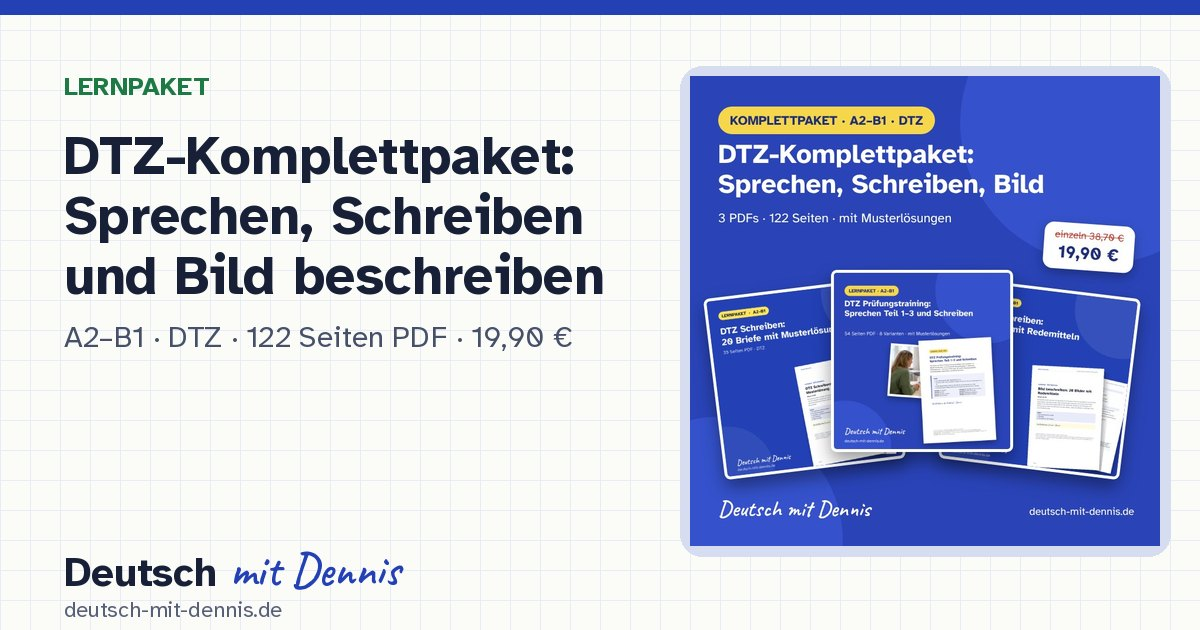
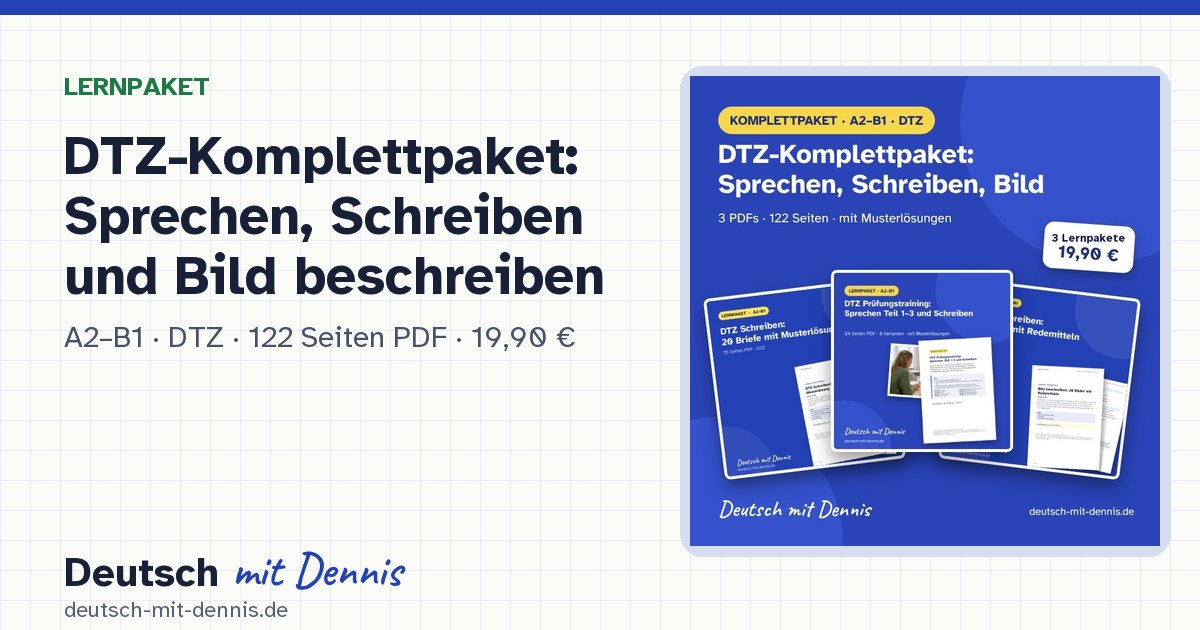
Remove price comparison from DTZ complete package (Digistore requirement)

diff --git a/lernpakete/dtz-komplettpaket/index.html b/lernpakete/dtz-komplettpaket/index.html
@@ -1,13 +1,13 @@
 <!DOCTYPE html>
 <html lang="de"><head><meta charset="utf-8"><meta name="viewport" content="width=device-width,initial-scale=1">
 <title>DTZ-Komplettpaket: Sprechen, Schreiben und Bild beschreiben – Deutsch mit Dennis</title>
-<meta name="description" content="Alles für die mündliche Prüfung und das Schreiben im DTZ in einem Paket – drei Lernpakete zum Sparpreis: das Prüfungstraining Sprechen Teil 1–3 und Schreiben, 20 Briefe mit Musterlösung und 20 Bilder mit Redemitteln. Einzeln kosten sie zusammen 38,70 €.">
+<meta name="description" content="Alles für die mündliche Prüfung und das Schreiben im DTZ in einem Paket – drei Lernpakete zusammen: das Prüfungstraining Sprechen Teil 1–3 und Schreiben, 20 Briefe mit Musterlösung und 20 Bilder mit Redemitteln.">
 <link rel="canonical" href="https://deutsch-mit-dennis.de/lernpakete/dtz-komplettpaket/">
 <meta property="og:type" content="website"><meta property="og:site_name" content="Deutsch mit Dennis"><meta property="og:locale" content="de_DE">
-<meta property="og:title" content="DTZ-Komplettpaket: Sprechen, Schreiben und Bild beschreiben"><meta property="og:description" content="Alles für die mündliche Prüfung und das Schreiben im DTZ in einem Paket – drei Lernpakete zum Sparpreis: das Prüfungstraining Sprechen Teil 1–3 und Schreiben, 20 Briefe mit Musterlösung und 20 Bilder mit Redemitteln. Einzeln kosten sie zusammen 38,70 €."><meta property="og:url" content="https://deutsch-mit-dennis.de/lernpakete/dtz-komplettpaket/">
+<meta property="og:title" content="DTZ-Komplettpaket: Sprechen, Schreiben und Bild beschreiben"><meta property="og:description" content="Alles für die mündliche Prüfung und das Schreiben im DTZ in einem Paket – drei Lernpakete zusammen: das Prüfungstraining Sprechen Teil 1–3 und Schreiben, 20 Briefe mit Musterlösung und 20 Bilder mit Redemitteln."><meta property="og:url" content="https://deutsch-mit-dennis.de/lernpakete/dtz-komplettpaket/">
 <meta property="og:image" content="https://deutsch-mit-dennis.de/assets/og/paket-dtz-komplettpaket.jpg"><meta property="og:image:width" content="1200"><meta property="og:image:height" content="630">
 <meta name="twitter:card" content="summary_large_image">
 <link rel="icon" href="/favicon.svg">
 <script>location.replace("/#lernpakete/dtz-komplettpaket");</script>
 <style>body{font:18px/1.6 system-ui,sans-serif;max-width:640px;margin:60px auto;padding:0 20px;color:#172036}a{color:#2341B5}</style>
-</head><body><h1>DTZ-Komplettpaket: Sprechen, Schreiben und Bild beschreiben</h1><p>Alles für die mündliche Prüfung und das Schreiben im DTZ in einem Paket – drei Lernpakete zum Sparpreis: das Prüfungstraining Sprechen Teil 1–3 und Schreiben, 20 Briefe mit Musterlösung und 20 Bilder mit Redemitteln. Einzeln kosten sie zusammen 38,70 €.</p><p><a href="/#lernpakete/dtz-komplettpaket">Weiter zu „DTZ-Komplettpaket: Sprechen, Schreiben und Bild beschreiben“</a></p></body></html>
+</head><body><h1>DTZ-Komplettpaket: Sprechen, Schreiben und Bild beschreiben</h1><p>Alles für die mündliche Prüfung und das Schreiben im DTZ in einem Paket – drei Lernpakete zusammen: das Prüfungstraining Sprechen Teil 1–3 und Schreiben, 20 Briefe mit Musterlösung und 20 Bilder mit Redemitteln.</p><p><a href="/#lernpakete/dtz-komplettpaket">Weiter zu „DTZ-Komplettpaket: Sprechen, Schreiben und Bild beschreiben“</a></p></body></html>

diff --git a/site-data.js b/site-data.js
@@ -863,7 +863,7 @@ DM.materials = [{"file":"material/arbeitsblaetter/aushaenge-im-wohnhaus-verstehe
 DM.shop = { refundDays: 14 };
 DM.packages = [
   { id: 'dtz-komplettpaket', pages: 122, img: 'assets/pakete/dtz-komplettpaket.jpg', preview: 'material/leseproben/dtz-sprechen-schreiben-8.pdf', group: 'lernende', icon: '📦', title: 'DTZ-Komplettpaket: Sprechen, Schreiben und Bild beschreiben', level: 'A2–B1', target: 'DTZ', price: '19,90 €', buy: 'https://www.checkout-ds24.com/product/756912',
-    desc: 'Alles für die mündliche Prüfung und das Schreiben im DTZ in einem Paket – drei Lernpakete zum Sparpreis: das Prüfungstraining Sprechen Teil 1–3 und Schreiben, 20 Briefe mit Musterlösung und 20 Bilder mit Redemitteln. Einzeln kosten sie zusammen 38,70 €.',
+    desc: 'Alles für die mündliche Prüfung und das Schreiben im DTZ in einem Paket – drei Lernpakete zusammen: das Prüfungstraining Sprechen Teil 1–3 und Schreiben, 20 Briefe mit Musterlösung und 20 Bilder mit Redemitteln.',
     contents: ['Prüfungstraining: Sprechen Teil 1–3 und Schreiben (54 Seiten, 8 Varianten)', 'DTZ Schreiben: 20 Briefe mit Musterlösung (35 Seiten)', 'Bild beschreiben: 20 Bilder mit Redemitteln (33 Seiten)', 'Alle Musterlösungen, Redemittel und Checklisten'],
     note: 'Du bekommst drei PDF-Dateien. Die Leseprobe zeigt Seiten aus dem Prüfungstraining; Leseproben der anderen beiden Pakete findest du auf deren Seiten.' },
   { id: 'dtz-sprechen-schreiben-8', pages: 54, img: 'assets/pakete/dtz-sprechen-schreiben-8.jpg', preview: 'material/leseproben/dtz-sprechen-schreiben-8.pdf', group: 'lernende', icon: '🗣', title: 'DTZ Prüfungstraining: Sprechen Teil 1–3 und Schreiben', level: 'A2–B1', target: 'DTZ', price: '12,90 €', buy: 'https://www.checkout-ds24.com/product/756910',

diff --git a/index.html b/index.html
@@ -70,7 +70,7 @@
 <script defer src="ukrainian.js?v=20261008e"></script>
 <script defer src="learning-tools.js?v=20261008e"></script>
 <script defer src="learner-paths.js?v=20261015a"></script>
-<script defer src="site-data.js?v=20261029d"></script>
+<script defer src="site-data.js?v=20261029e"></script>
 <script defer src="hoeren-data.js?v=20261028a"></script>
 <script defer src="lieder-data.js?v=20261029a"></script>
 <script defer src="lid-katalog.js?v=20261019b"></script>
